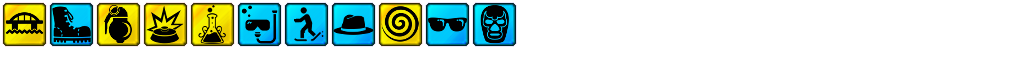
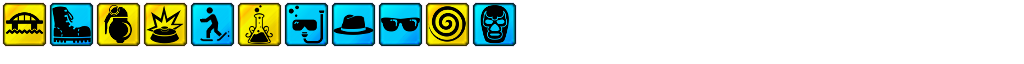
Replesed: 1) Snowshoes with Sapper Shoes; 2) Spy with Teleport Man

Changed region(s): [[0.1875, 0.0312, 0.4688, 0.7188]]

diff --git a/core/src/ru/mitrakov/self/rush/model/Model.java b/core/src/ru/mitrakov/self/rush/model/Model.java
@@ -139,10 +139,10 @@ public class Model {
      * ability list; some abilities are stubs (a7, a8, up to a32), because skills start with an index=33
      */
     public enum Ability {
-        None, Snorkel, ClimbingShoes, SouthWester, VoodooMask, Snowshoes, Sunglasses,
+        None, Snorkel, ClimbingShoes, SouthWester, VoodooMask, SapperShoes, Sunglasses,
         a7, a8, a9, a10, a11, a12, a13, a14, a15, a16, a17, a18, a19,
         a20, a21, a22, a23, a24, a25, a26, a27, a28, a29, a30, a31, a32,
-        Miner, Builder, Shaman, Grenadier, Spy
+        Miner, Builder, Shaman, Grenadier, TeleportMan
     }
 
     public final Ability[] abilityValues = Ability.values();
